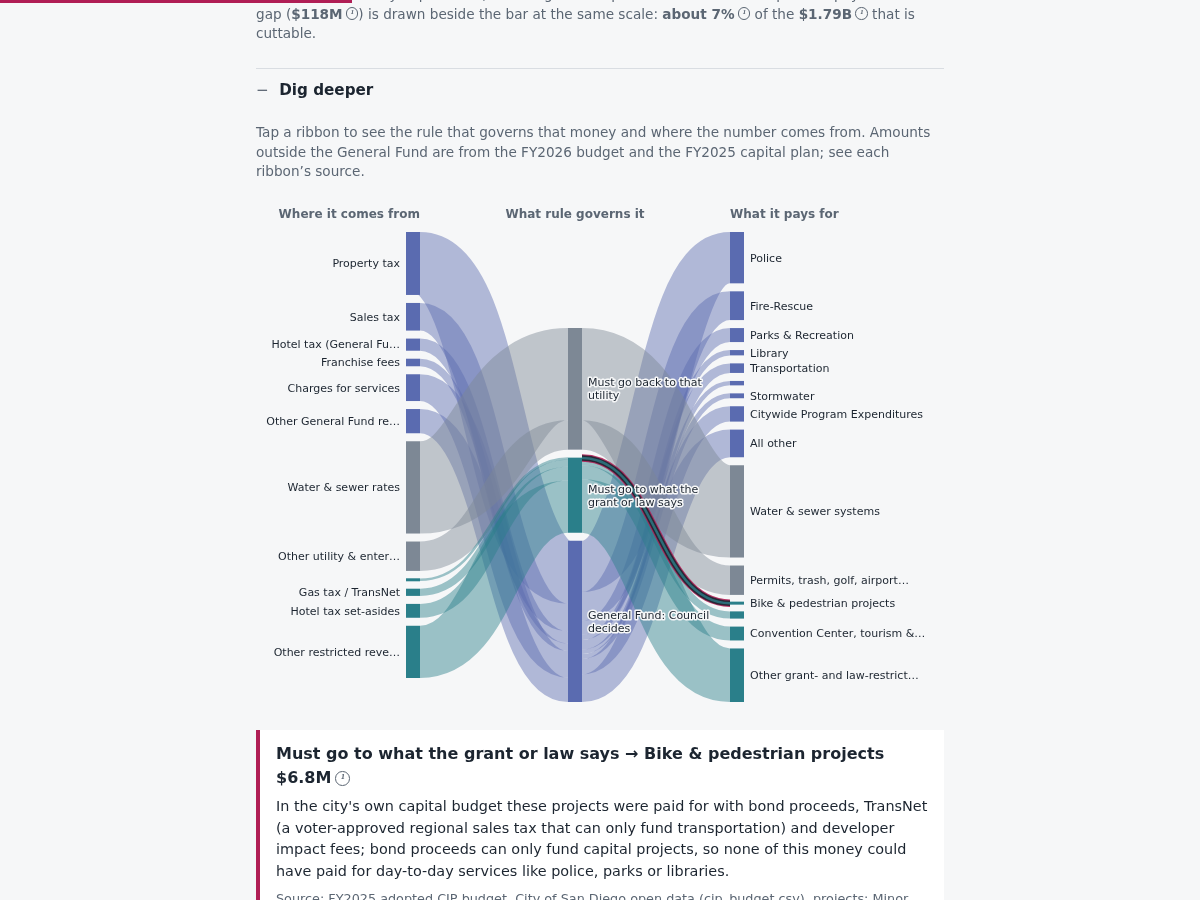
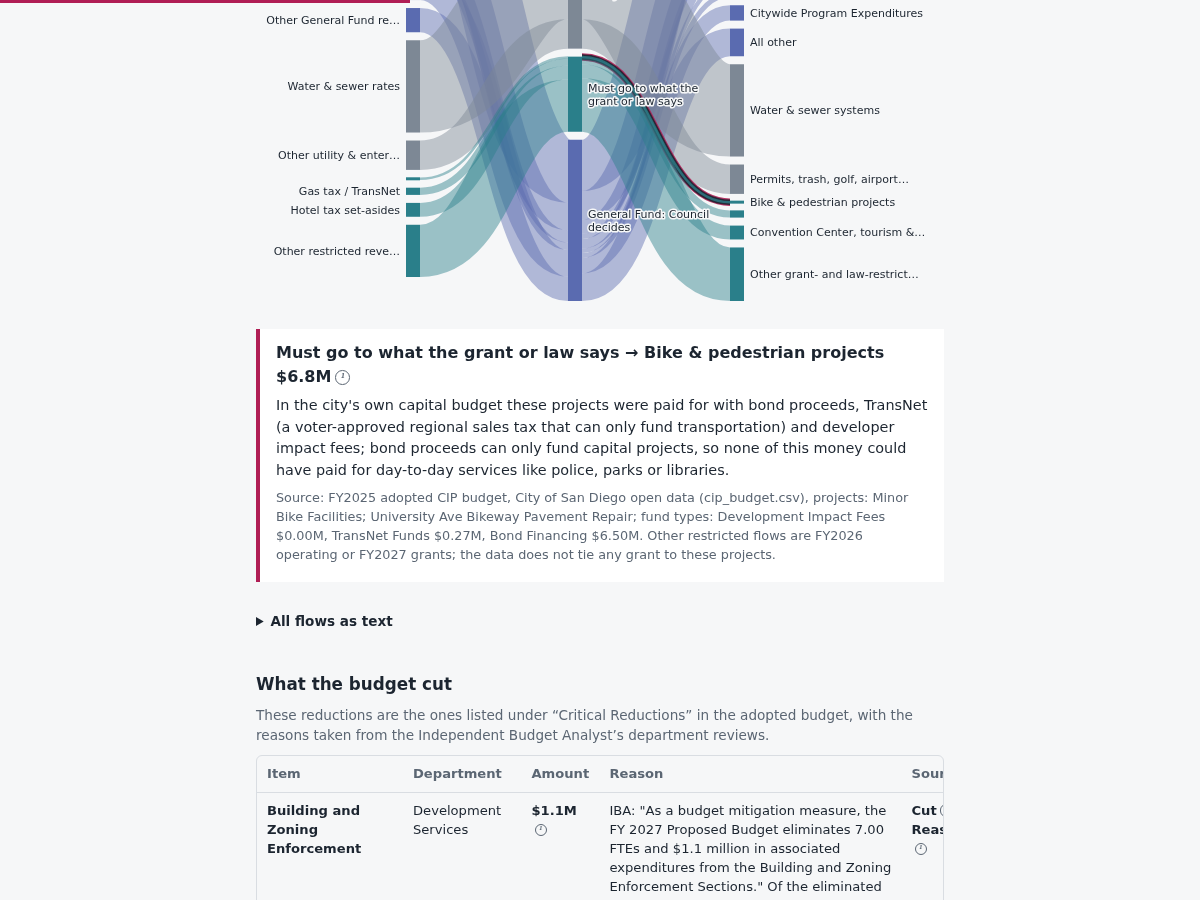
fix: sankey a11y roles, silent preselect, readable vertical layout with flow list

Changed region(s): [[0.2158, 0.0, 0.8017, 1.0], [0.7708, 0.84, 0.8017, 0.8711]]

diff --git a/site/charts/sankey.js b/site/charts/sankey.js
@@ -62,7 +62,7 @@ export function render(el, data, colors, onSelect, opts = {}) {
   // layout x (column axis) is drawn downward, layout y (within a column) is drawn rightward.
   let H, extent, m;
   if (vertical) {
-    m = { top: 138, right: 4, bottom: 128, left: 4 };
+    m = { top: 140, right: 4, bottom: 150, left: 4 };
     extent = [[0, 0], [430, W - m.left - m.right]];
     H = m.top + 430 + m.bottom;
   } else {
@@ -101,7 +101,7 @@ export function render(el, data, colors, onSelect, opts = {}) {
   wrapEl.className = 'sankey';
   const svg = d3.select(wrapEl).append('svg')
     .attr('width', W).attr('height', H).attr('viewBox', `0 0 ${W} ${H}`)
-    .attr('role', 'img')
+    .attr('role', 'group')
     .style('display', 'block').style('max-width', '100%').style('overflow', 'visible');
   const hl = links.find((l) => l.highlight);
   const nSrc = nodes.filter((n) => n.column === 0).length;
@@ -141,11 +141,6 @@ export function render(el, data, colors, onSelect, opts = {}) {
       gr.select('.ribbon-vis').attr('stroke-opacity', on ? 0.8 : 0.45);
       gr.attr('aria-pressed', on ? 'true' : 'false');
     }
-    gr_raise(l);
-  }
-  function gr_raise(l) {
-    const hit = groups.find(([k]) => k === linkKey(l));
-    if (hit) hit[1].raise();
   }
 
   // nodes
@@ -168,18 +163,7 @@ export function render(el, data, colors, onSelect, opts = {}) {
   for (const col of [0, 1, 2]) {
     const cn = nodes.filter((n) => n.column === col);
     if (vertical) {
-      if (col === 1) {
-        cn.forEach((n, i) => {
-          const b = nodeBox(n);
-          const txt = n.label;
-          const room = W - m.left - m.right;
-          const w = txt.length * CHAR;
-          const endAlign = b.x + w > room;
-          const t = label(g).attr('y', b.y - 5 - (i % 3) * 13).attr('x', endAlign ? b.x + b.w : b.x).attr('text-anchor', endAlign ? 'end' : 'start');
-          t.text(trunc(txt, endAlign ? b.x + b.w : room - b.x));
-        });
-        continue;
-      }
+      if (col === 1) continue; // identified by the colour key above the chart and the flow list
       const keep = pickLabels(cn, (n) => (n.y0 + n.y1) / 2, prio, FONT + 3);
       for (const n of keep) {
         const b = nodeBox(n);
@@ -208,30 +192,56 @@ export function render(el, data, colors, onSelect, opts = {}) {
     }
   }
 
-  // column headings
-  const colX = (col) => {
-    const n = nodes.find((x) => x.column === col);
-    return vertical ? 0 : n.x0 + NODE_W / 2;
-  };
-  captions.slice(0, 3).forEach((cap, col) => {
-    if (!cap) return;
-    const n = nodes.find((x) => x.column === col);
-    const t = svg.append('text').attr('fill', colors.muted).style('font', `600 ${FONT + 1}px var(--font-ui)`).text(cap);
-    for (const [k, v] of Object.entries(halo)) t.style(k, v);
-    if (vertical) {
-      // col 0 above its rotated labels; col 1 below its nodes; col 2 above its nodes
-      const y = col === 0 ? 14 : col === 1 ? m.top + n.x0 + NODE_W + 15 : m.top + n.x0 - 8;
-      t.attr('x', m.left).attr('y', y);
-    } else {
-      t.attr('y', 16).attr('x', m.left + colX(col)).attr('text-anchor', col === 0 ? 'end' : col === 2 ? 'start' : 'middle');
-      if (col === 0) t.attr('x', m.left + n.x0 + NODE_W); else if (col === 2) t.attr('x', m.left + n.x0);
+  // column headings: drawn in the svg only in the horizontal layout. The vertical layout uses an HTML key instead,
+  // so no text is drawn over ribbons.
+  if (!vertical) {
+    captions.slice(0, 3).forEach((cap, col) => {
+      if (!cap) return;
+      const n = nodes.find((x) => x.column === col);
+      svg.append('text').attr('fill', colors.muted).style('font', `600 ${FONT + 1}px var(--font-ui)`).text(cap)
+        .attr('y', 16).attr('text-anchor', col === 0 ? 'end' : col === 2 ? 'start' : 'middle')
+        .attr('x', col === 0 ? m.left + n.x0 + NODE_W : col === 2 ? m.left + n.x0 : m.left + n.x0 + NODE_W / 2);
+    });
+  } else {
+    const key = document.createElement('div');
+    key.className = 'sankey-key';
+    const ol = document.createElement('ol');
+    ol.className = 'legend';
+    ['Top', 'Middle', 'Bottom'].forEach((pos, col) => {
+      if (!captions[col]) return;
+      const li = document.createElement('li');
+      li.textContent = `${pos}: ${captions[col]}`;
+      ol.append(li);
+    });
+    const lg = document.createElement('ul');
+    lg.className = 'legend';
+    for (const n of nodes.filter((x) => x.column === 1)) {
+      const li = document.createElement('li');
+      const sw = document.createElement('span');
+      sw.className = 'swatch';
+      sw.style.background = kindColor[n.kind];
+      li.append(sw, n.label);
+      lg.append(li);
     }
-  });
+    key.append(ol, lg);
+    el.append(key);
+  }
 
   el.append(wrapEl);
   const initial = (opts.selected && links.find((l) => linkKey(l) === opts.selected)) || hl;
-  if (initial) { select(initial); if (onSelect) onSelect(initial); }
+  if (initial) { select(initial); if (onSelect) onSelect(initial, { silent: true }); }
   return { select, vertical };
 }
 
-export default { prepare, render, linkKey, linkLabel };
+// Group links under the rule node they touch (every link touches exactly one), highlighted flow first.
+export function groupFlows(data) {
+  const byId = Object.fromEntries(data.nodes.map((n) => [n.id, n]));
+  return data.nodes.filter((n) => n.column === 1).map((rule) => ({
+    rule,
+    links: data.links.filter((l) => l.source === rule.id || l.target === rule.id)
+      .sort((a, b) => (Number(b.highlight) - Number(a.highlight)) || (b.value - a.value))
+      .map((l) => ({ ...l, sourceLabel: byId[l.source].label, targetLabel: byId[l.target].label })),
+  }));
+}
+
+export default { prepare, render, linkKey, linkLabel, groupFlows };

diff --git a/site/app.js b/site/app.js
@@ -204,39 +204,78 @@ function srcData(el, src) {
   el.dataset.srcUrl = src.url;
 }
 
-function showFlow(panel, link) {
-  const rows = document.createDocumentFragment();
-  const h = document.createElement('p');
-  h.className = 'flow-title';
-  h.textContent = sankey.linkLabel(link);
+function flowAmount(link) {
   const amt = document.createElement('span');
   amt.className = 'figure';
   srcData(amt, link.ref);
   amt.textContent = money(link.value);
-  h.append(' ', amt);
+  return amt;
+}
+
+// The panel is not a live region until the reader selects a flow, so pre-selection and re-renders stay silent.
+function showFlow(panel, link, silent) {
+  const key = sankey.linkKey(link);
+  if (silent && panel.dataset.key === key) return;
+  panel.dataset.key = key;
+  if (!silent) panel.setAttribute('aria-live', 'polite');
+  const h = document.createElement('p');
+  h.className = 'flow-title';
+  h.append(sankey.linkLabel(link), ' ', flowAmount(link));
   const rule = document.createElement('p');
   rule.className = 'flow-rule';
   rule.textContent = link.rule;
   const yr = document.createElement('p');
   yr.className = 'flow-year';
   yr.textContent = `Source: ${link.ref.doc}.`;
-  rows.append(h, rule, yr);
-  panel.replaceChildren(rows);
+  panel.replaceChildren(h, rule, yr);
   mountPopovers(panel);
+}
+
+function buildFlowList(prep) {
+  const det = document.createElement('details');
+  det.className = 'flowlist';
+  const sum = document.createElement('summary');
+  sum.textContent = 'All flows as text';
+  det.append(sum);
+  for (const grp of sankey.groupFlows(prep)) {
+    const h = document.createElement('h4');
+    h.textContent = grp.rule.label;
+    const ul = document.createElement('ul');
+    for (const l of grp.links) {
+      const li = document.createElement('li');
+      if (l.highlight) li.className = 'is-highlight';
+      const t = document.createElement('p');
+      t.className = 'flow-title';
+      t.append(`${l.sourceLabel} \u2192 ${l.targetLabel}: `, flowAmount(l));
+      if (l.highlight) t.append(' (highlighted flow)');
+      const r = document.createElement('p');
+      r.className = 'flow-rule';
+      r.textContent = l.rule;
+      li.append(t, r);
+      ul.append(li);
+    }
+    det.append(h, ul);
+  }
+  return det;
 }
 
 function renderSankey(flows) {
   const el = document.getElementById('ch2-sankey');
   const panel = document.createElement('div');
   panel.className = 'flow-panel';
-  panel.setAttribute('aria-live', 'polite');
-  el.after(panel);
   const prep = sankey.prepare(flows);
+  const list = buildFlowList(prep);
+  el.after(list);
+  mountPopovers(list);
   const captions = [0, 1, 2].map((n) => el.getAttribute(`data-col-${n}`));
   let selected = null;
   observeWidth(el, (w) => {
     if (w <= 0) return; // <details> still closed; draws on first open
-    sankey.render(el, prep, themeColors(), (l) => { selected = sankey.linkKey(l); showFlow(panel, l); }, { captions, selected });
+    const narrow = w < 600;
+    if (narrow) el.before(panel); else el.after(panel); // narrow: selection sits above the chart, in view
+    list.classList.toggle('narrow', narrow);
+    if (narrow) list.open = true;
+    sankey.render(el, prep, themeColors(), (l, o) => { selected = sankey.linkKey(l); showFlow(panel, l, !!(o && o.silent)); }, { captions, selected });
   });
 }
 

diff --git a/site/styles.css b/site/styles.css
@@ -141,3 +141,15 @@ main { padding-bottom: 80px; }
 .table-wrap thead th { color: var(--muted); font-weight: 650; white-space: nowrap; }
 .table-wrap tbody th { font-weight: 600; min-width: 11em; max-width: 16em; position: sticky; left: 0; background: var(--bg); }
 .table-wrap td:nth-child(4) { min-width: 18em; }
+.sankey-key { margin: 0 0 8px; }
+.sankey-key ol.legend { list-style: none; flex-direction: column; gap: 2px; margin-bottom: 6px; }
+.swatch { display: inline-block; width: 14px; height: 14px; flex: none; }
+.flowlist { margin: 12px 0 20px; font: 0.85rem/1.45 var(--font-ui); }
+.flowlist > summary { cursor: pointer; padding: 10px 0; font-weight: 600; min-height: 44px; }
+.flowlist.narrow > summary { display: none; }
+.flowlist h4 { margin: 18px 0 4px; font: 650 0.95rem/1.3 var(--font-ui); }
+.flowlist ul { list-style: none; margin: 0; padding: 0; }
+.flowlist li { padding: 8px 0; border-bottom: 1px solid var(--rule); overflow-wrap: anywhere; }
+.flowlist li.is-highlight { border-left: 4px solid var(--gap); padding-left: 8px; }
+.flowlist p { margin: 0 0 2px; }
+.flowlist .flow-rule { color: var(--muted); }

diff --git a/site-tests/render.test.js b/site-tests/render.test.js
@@ -142,3 +142,16 @@ test('test_sankey_prepare_preserves_highlight_and_rule', () => {
   assert.equal(typeof flows.links[0].source, 'string');
   assert.equal(flows.links[0].amount_m, p.links[0].value);
 });
+
+import { groupFlows } from '../site/charts/sankey.js';
+test('groupFlows puts every link under exactly one rule node, highlighted flow first', () => {
+  const flows = JSON.parse(readFileSync(new URL('../data/build/flows.json', import.meta.url), 'utf8'));
+  const prep = sankeyPrepare(flows);
+  const groups = groupFlows(prep);
+  assert.equal(groups.length, 3);
+  assert.equal(groups.reduce((a, g) => a + g.links.length, 0), 27);
+  const g = groups.find((x) => x.rule.id === 'rule_restricted');
+  assert.equal(g.links[0].highlight, true);
+  assert.equal(g.links[0].targetLabel, 'Bike & pedestrian projects');
+  assert.ok(groups.every((x) => x.links.every((l) => l.rule && l.ref)));
+});
